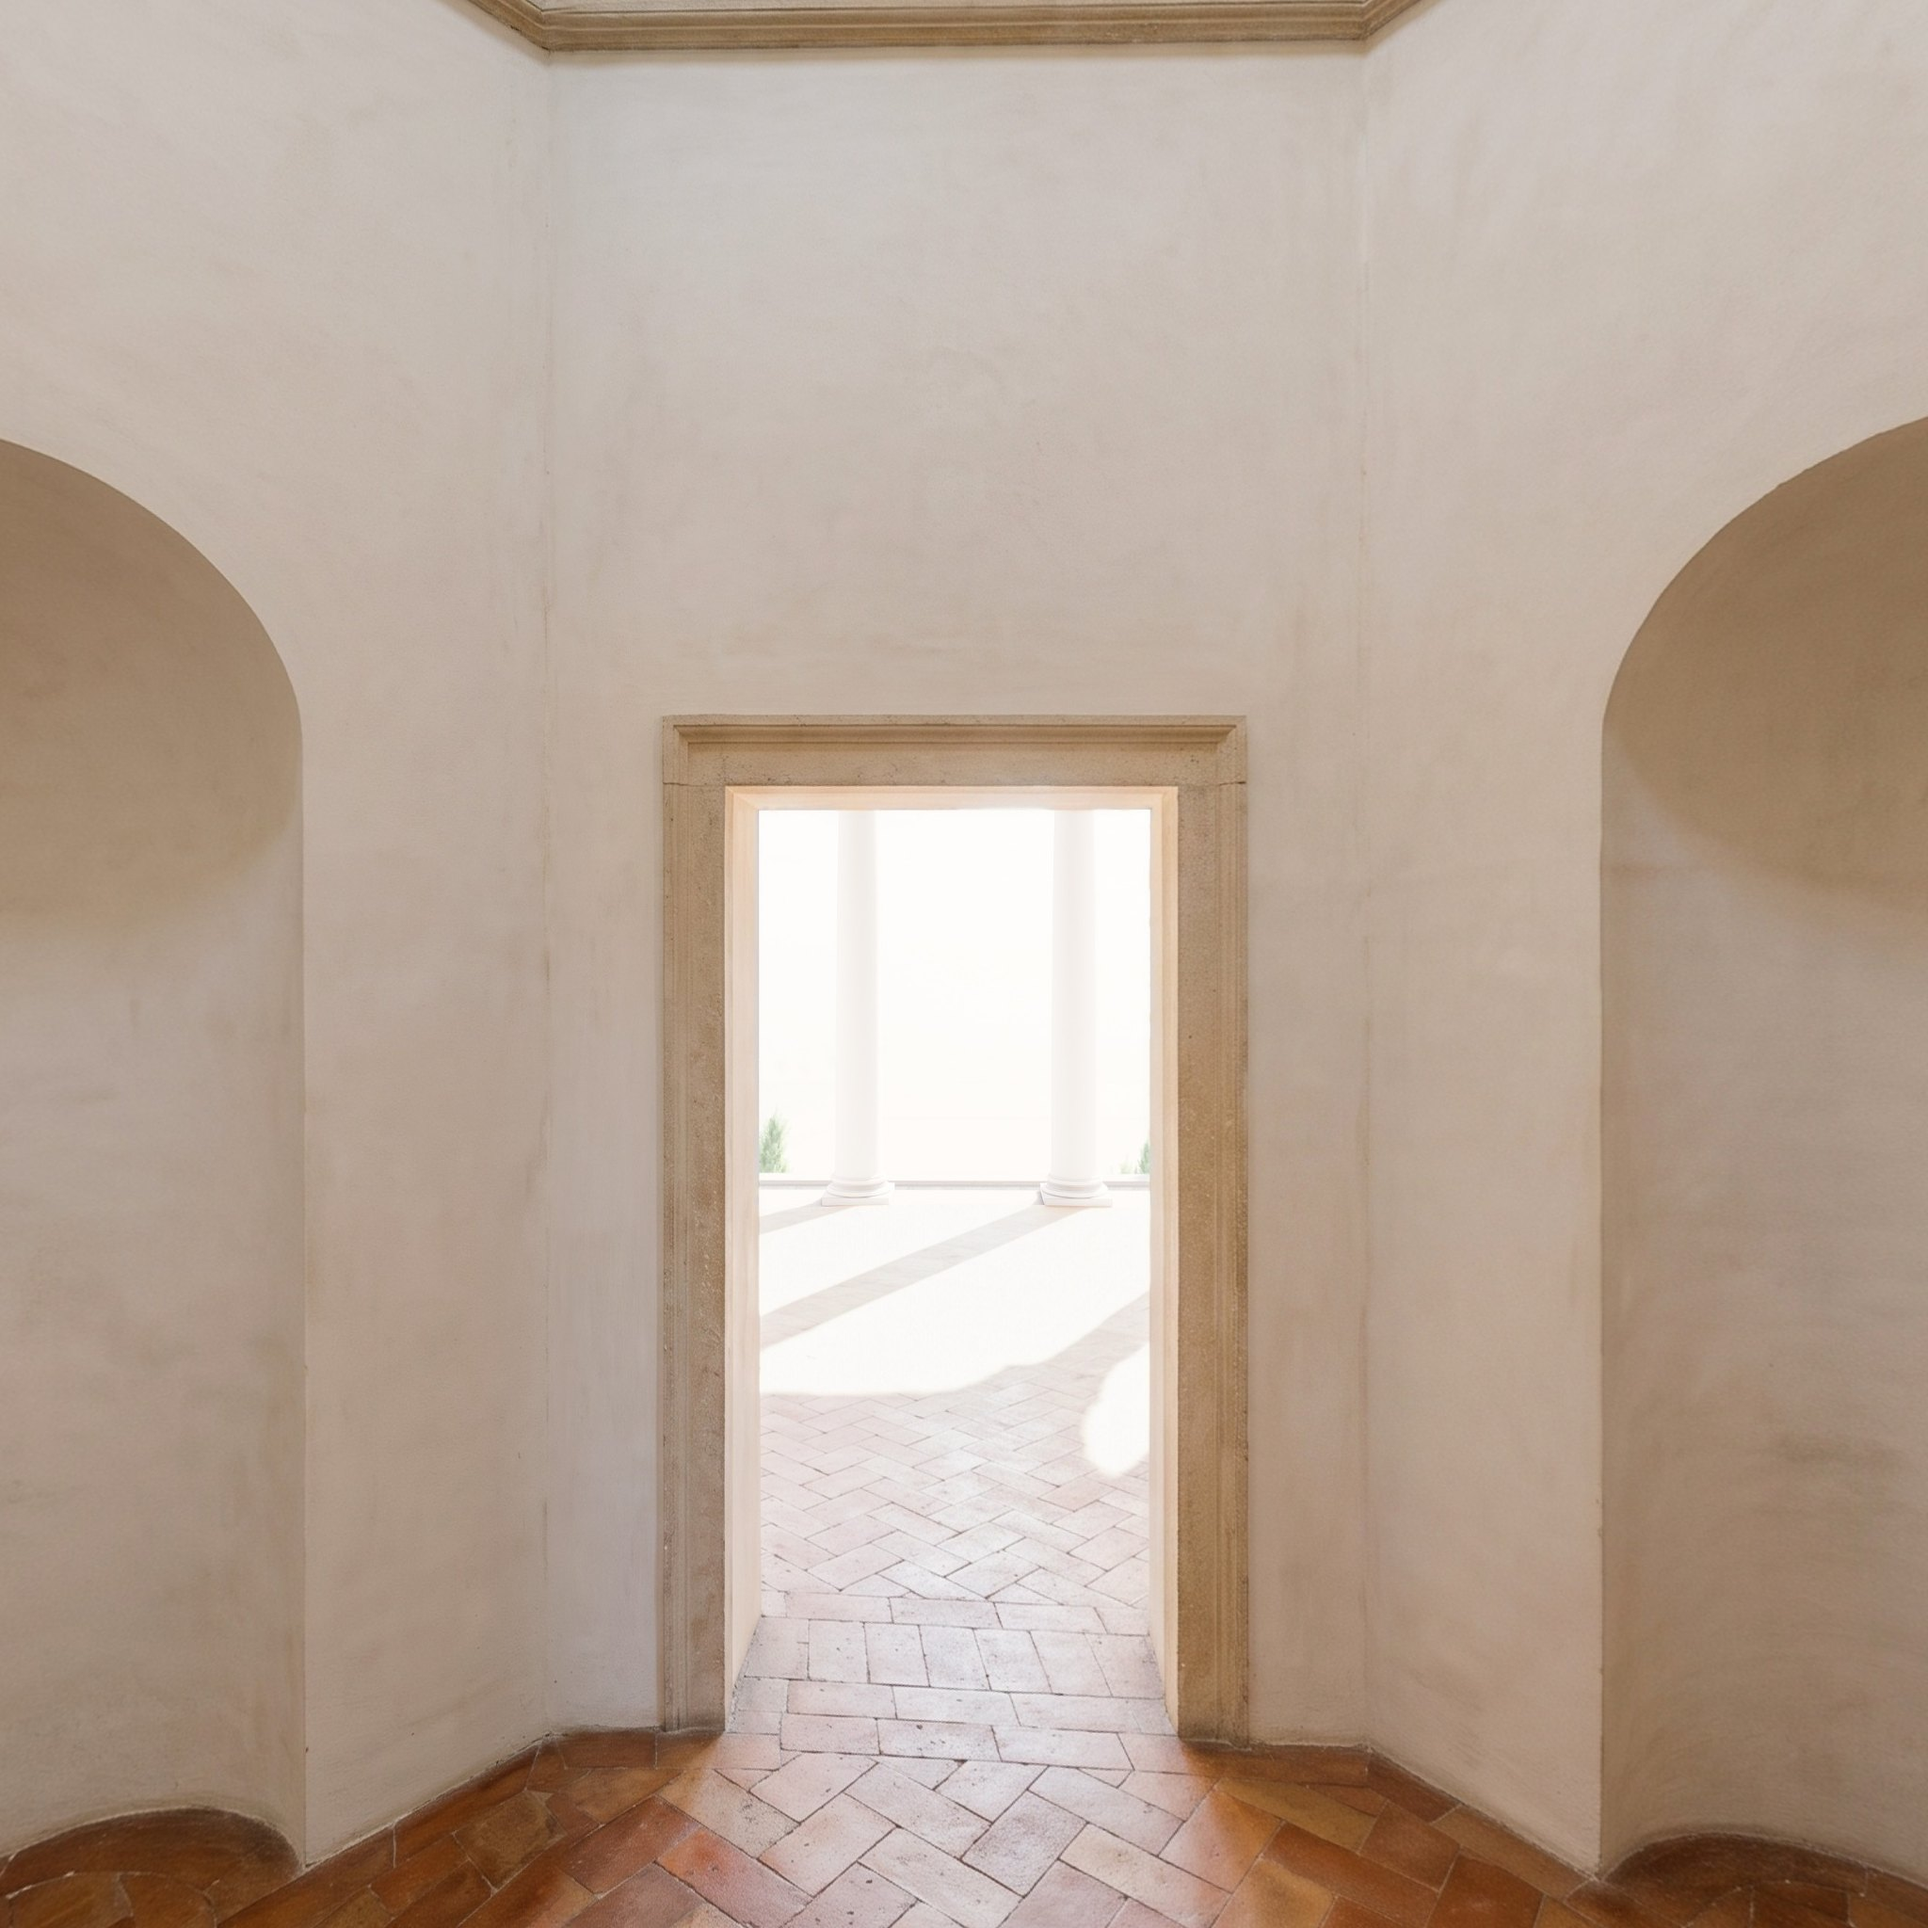
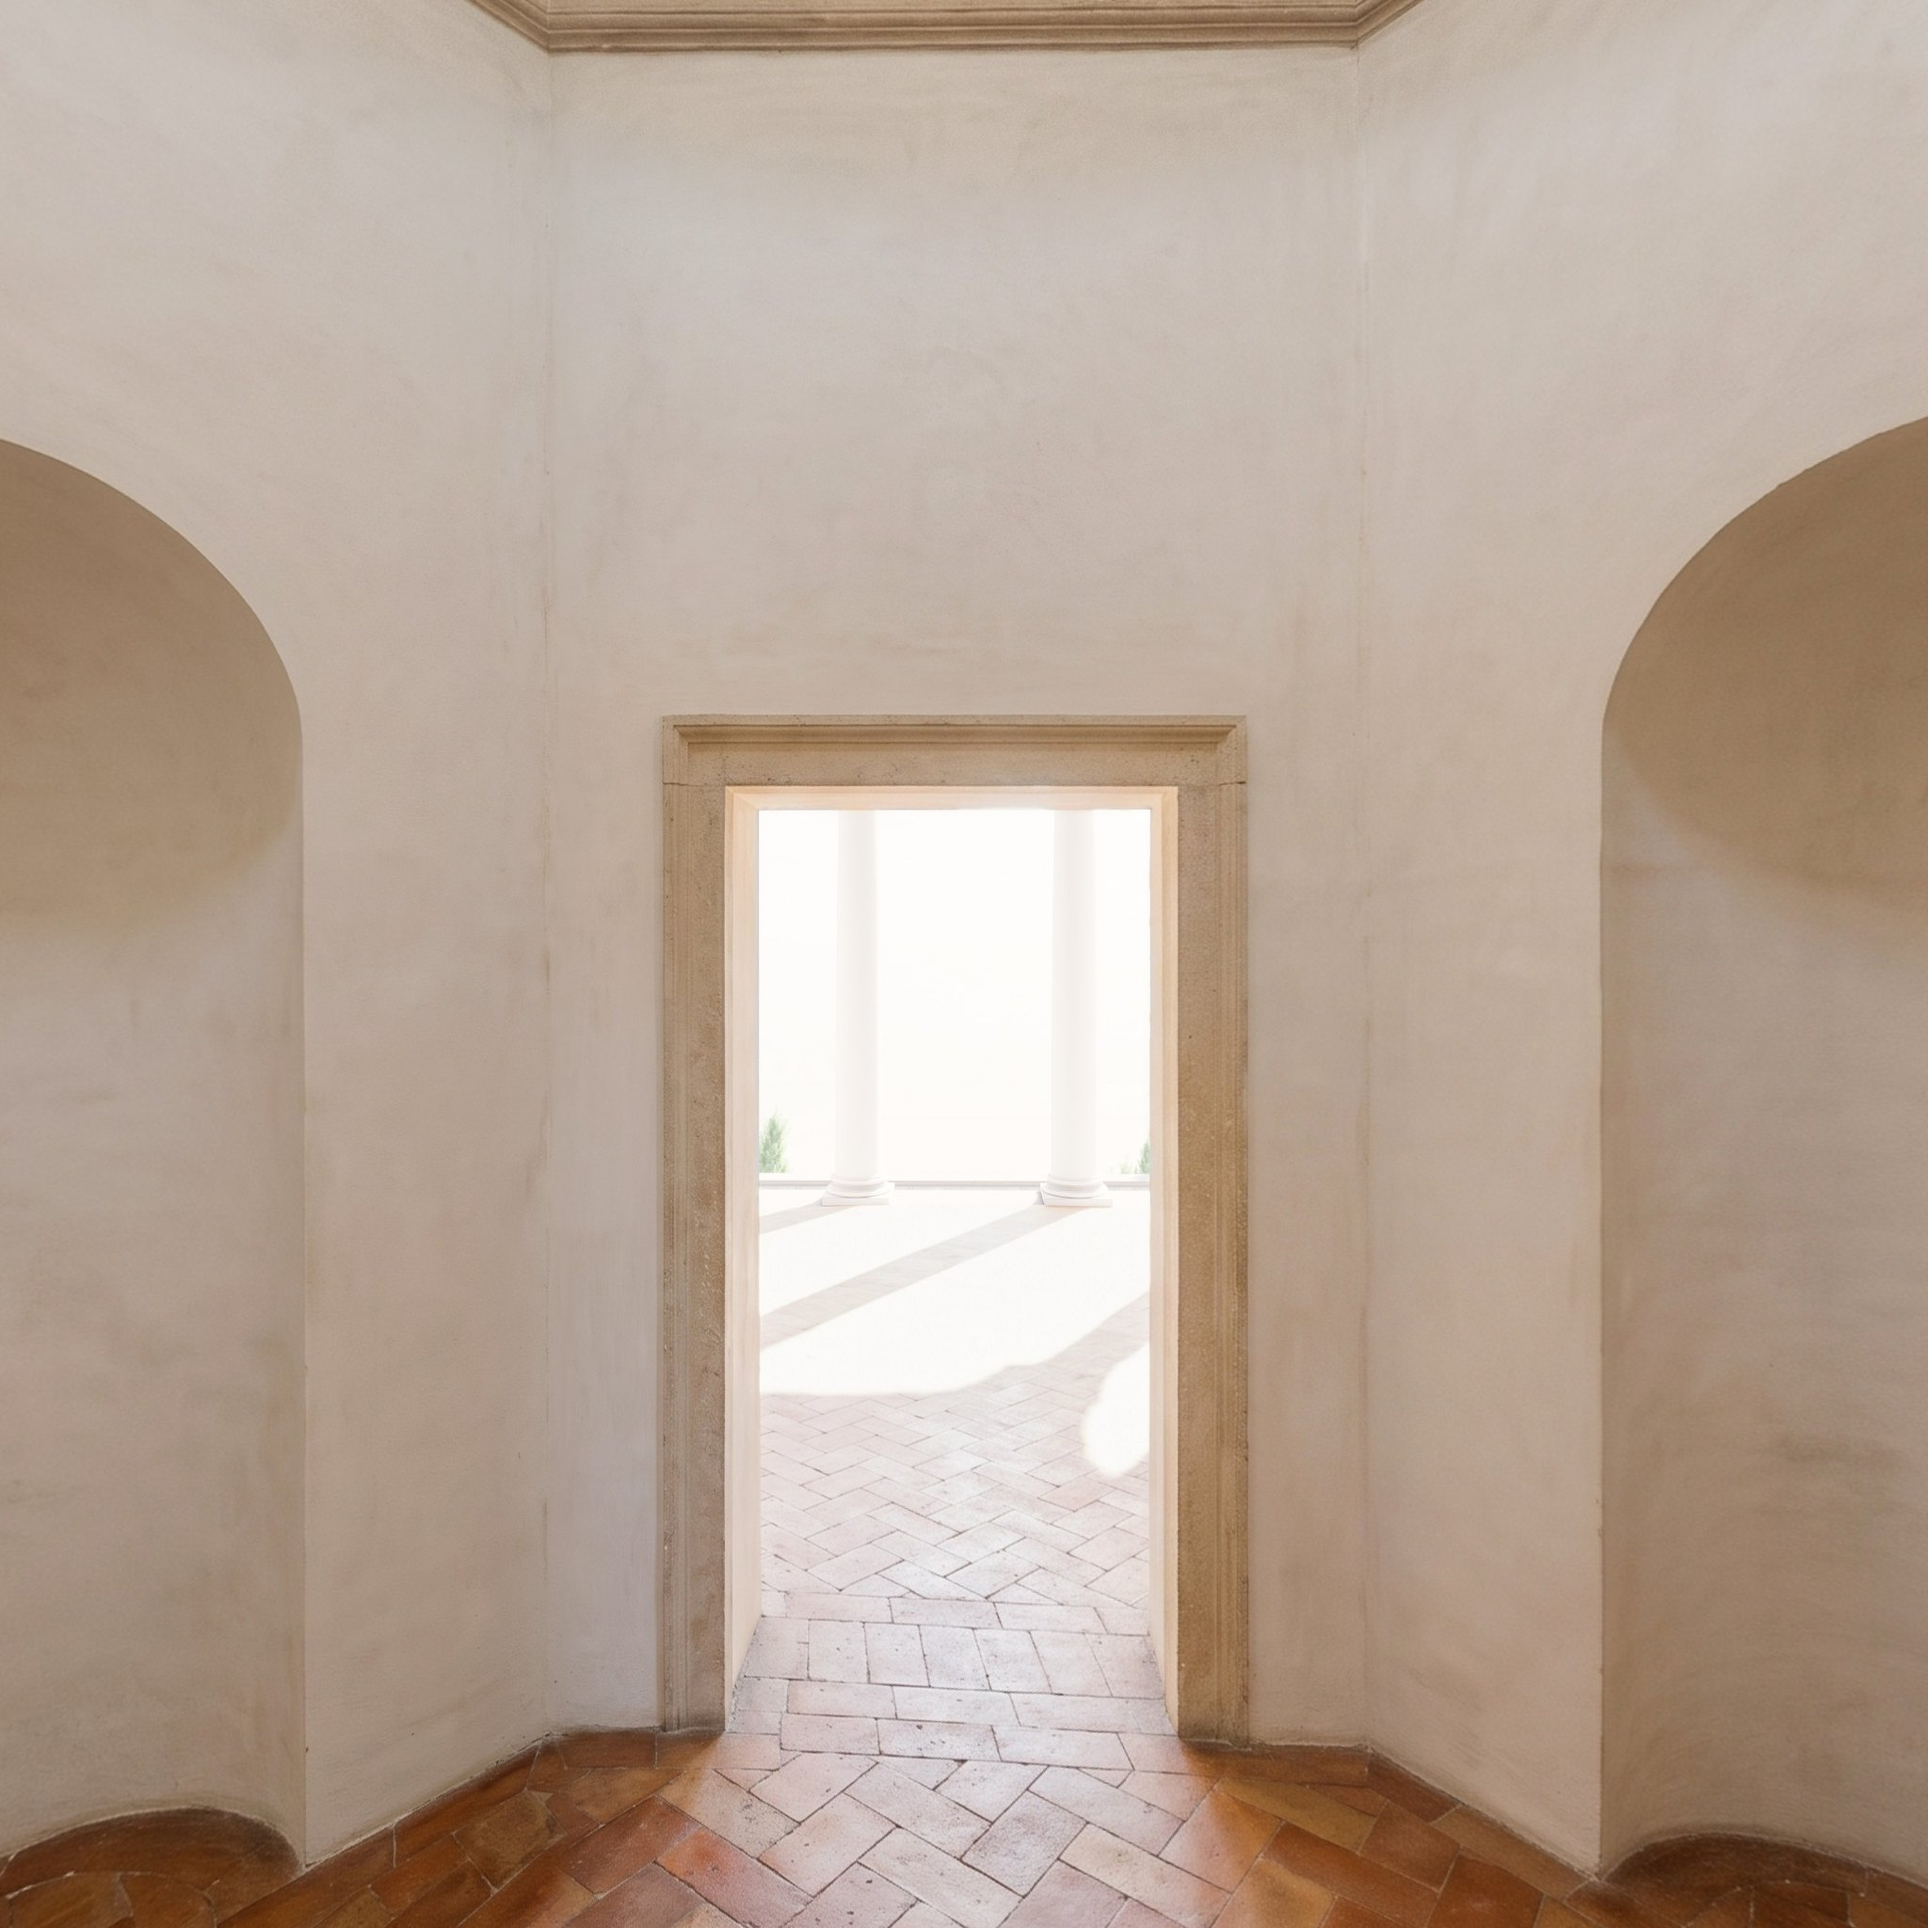
1593 sala ottagonale v5: cornicione tutto dalla faccia zenitale (niente profili doppi agli spigoli, aifaces3 --cap-up); sezione «Chi siamo» con link ai siti FAR3D e studio
Claude-Session: https://claude.ai/code/session_01BjRViqfuZuswyaW4CNcrLU

Changed region(s): [[0.25, 0.0, 0.75, 0.0312], [0.4062, 0.0625, 0.4688, 0.0938]]

diff --git a/index.html b/index.html
@@ -73,6 +73,20 @@ h1{margin:0;font:600 clamp(40px,9vw,64px)/.95 var(--serif);letter-spacing:.005em
 .how span{font-size:13.5px;color:var(--muted)}
 .how svg{width:28px;height:28px;fill:none;stroke:var(--fg);stroke-width:1.5;stroke-linecap:round;stroke-linejoin:round;margin-bottom:6px;display:block}
 .note{margin-top:18px;font-size:13px;color:var(--muted);border-left:2px solid var(--accent);padding-left:10px}
+/* chi siamo */
+.about{margin-top:34px;padding-top:22px;border-top:1px solid var(--line);display:grid;grid-template-columns:minmax(0,1fr);gap:14px 28px}
+@media (min-width:700px){.about{grid-template-columns:minmax(0,1.1fr) minmax(0,1fr)}.about .ab-h{grid-column:1/-1}}
+.about .ab-h{display:flex;align-items:baseline;gap:12px}
+.about h2{margin:0;font:600 34px/1 var(--serif)}
+.about .ab-h span{font-size:12px;letter-spacing:.12em;text-transform:uppercase;color:var(--muted)}
+.about h3{margin:0 0 6px;font:600 20px/1.15 var(--serif)}
+.about p{margin:0 0 10px;color:var(--muted);font-size:14.5px}
+.about p b{color:var(--fg);font-weight:500}
+.about .ab-links{display:flex;flex-wrap:wrap;gap:8px;margin-top:4px}
+.about .ab-links a{display:inline-flex;align-items:center;gap:8px;padding:9px 14px;border-radius:999px;border:1px solid var(--line);text-decoration:none;font:500 13.5px/1 var(--sans);letter-spacing:.04em;background:rgba(255,255,255,.05)}
+.about .ab-links svg{width:16px;height:16px;fill:none;stroke:currentColor;stroke-width:1.7;stroke-linecap:round;stroke-linejoin:round}
+.about .ab-logo{height:30px;display:block;margin:2px 0 12px}
+footer a{text-decoration:none;border-bottom:1px solid var(--line)}
 footer{margin-top:34px;padding-top:14px;border-top:1px solid var(--line);display:flex;flex-wrap:wrap;gap:8px 20px;justify-content:space-between;font-size:12.5px;color:var(--muted)}
 footer img{height:22px;vertical-align:middle;margin-right:8px}
 @media (prefers-reduced-motion:no-preference){.card{transition:transform .2s}.card:hover{transform:translateY(-2px)}}
@@ -118,8 +132,25 @@ footer img{height:22px;vertical-align:middle;margin-right:8px}
 </section>
 <p class="note">Su iPhone, per lo schermo intero: condividi → «Aggiungi alla schermata Home» e apri da lì.</p>
 
+<section class="about" id="chi-siamo" aria-label="Chi siamo">
+  <div class="ab-h"><h2>Chi siamo</h2><span>FAR3D graphic &amp; design</span></div>
+  <div>
+    <img class="ab-logo" src="img/far3d_white.png" alt="FAR3D graphic & design">
+    <p><b>FAR3D</b> è il marchio con cui l'arch. Alberto Sguotti (Ordine degli Architetti di Padova), con studio a Conselve, riunisce rilievo digitale, ricostruzione tridimensionale e comunicazione visiva dell'architettura: nuvole di punti da scanner SLAM e fotogrammetria da drone, modelli 3D e BIM, immagini, video e visite immersive a 360°, fino ai supporti per vederle — come gli occhiali VR pieghevoli con cui è pensato questo sito.</p>
+    <div class="ab-links">
+      <a href="https://far3d.it" target="_blank" rel="noopener"><svg viewBox="0 0 24 24"><circle cx="12" cy="12" r="9"/><ellipse cx="12" cy="12" rx="9" ry="3.5"/><path d="M12 3v18"/></svg>far3d.it</a>
+      <a href="https://albertosguottiarchitetto.it" target="_blank" rel="noopener"><svg viewBox="0 0 24 24"><path d="M4 21V8l8-5 8 5v13"/><path d="M9 21v-7h6v7"/></svg>albertosguottiarchitetto.it</a>
+    </div>
+  </div>
+  <div>
+    <h3>Il progetto Villa Selvatico</h3>
+    <p>Il sito nasce dal progetto di digitalizzazione di Villa Selvatico a Battaglia Terme, bene storico vincolato, e da oltre dieci anni di approfondimenti progettuali e conoscitivi condotti con la proprietà: la ricerca storica sulla ricostruzione della prima villa, poi ripresa in un lavoro del Dipartimento dei Beni Culturali dell'Università di Padova, il video <i>Villa Selvatico nei secoli</i> e il modello tridimensionale della villa e del giardino nelle sue fasi, dal 1593 al Novecento, da cui sono tratte le viste a 360°.</p>
+    <p>Le <b>prove fotorealistiche</b> sono elaborazioni dei render del modello con l'intelligenza artificiale: materiali, vegetazione e luce sono interpretati, mentre la geometria dell'architettura, il cielo e i punti di vista restano quelli del modello. Vanno lette come concept, non come documenti.</p>
+  </div>
+</section>
+
 <footer>
-  <div><img src="img/far3d_mark_white.png" alt="FAR3D">graphic &amp; design · arch. Alberto Sguotti</div>
+  <div><img src="img/far3d_mark_white.png" alt="FAR3D">graphic &amp; design · arch. Alberto Sguotti · <a href="#chi-siamo">chi siamo</a></div>
   <div>Ricostruzioni 3D e viste 360° · Villa Selvatico, Battaglia Terme</div>
 </footer>
 </div>
